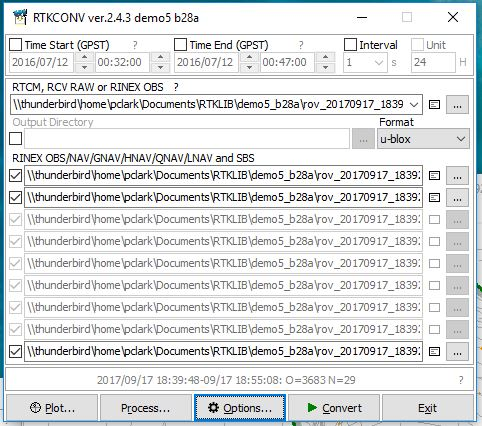
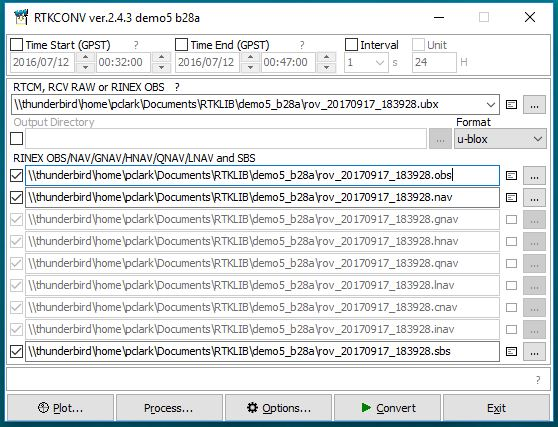
Added extra screenshots

diff --git a/POST_PROCESS.md b/POST_PROCESS.md
@@ -81,7 +81,11 @@ To start, I used RTKCONV (rtkconv.exe) to convert the raw u-blox files from the 
 
 ![rtkconv.JPG](https://github.com/PaulZC/NEO-M8T_GNSS_FeatherWing/blob/master/img/rtkconv.JPG)
 
-I changed the data format setting to _u-blox_, left the options set to their default settings and then converted first the base data (base_20170917_183829.ubx) and then the rover data (rov_20170917_183928.ubx).
+I changed the data format setting to _u-blox_, then changed the _Options_ to:
+
+![rtkconv.JPG](https://github.com/PaulZC/NEO-M8T_GNSS_FeatherWing/blob/master/img/rtkconv_options.JPG)
+
+Then I converted first the base data (base_20170917_183829.ubx) and then the rover data (rov_20170917_183928.ubx).
 This created the .nav and .obs files needed by RTKPOST.
 
 Next I ran RTKPOST (rtkpost.exe):
